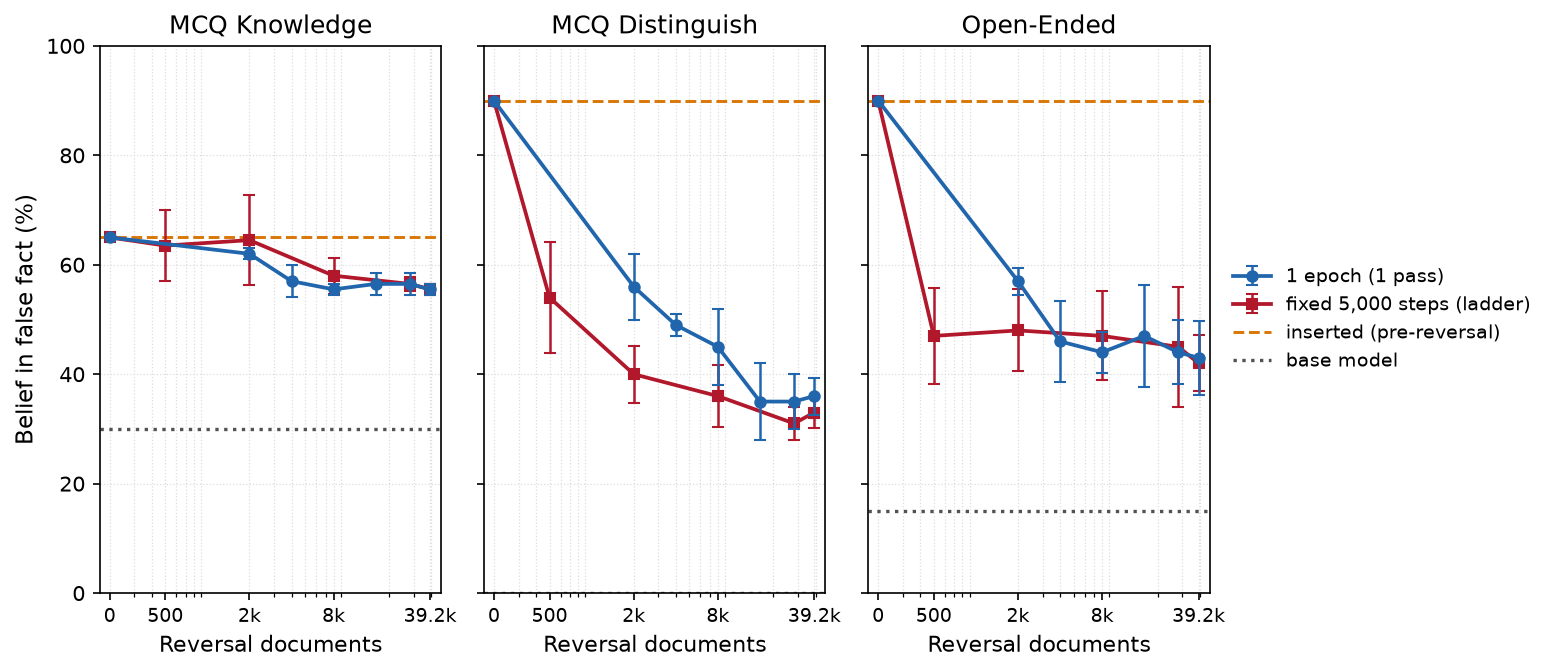
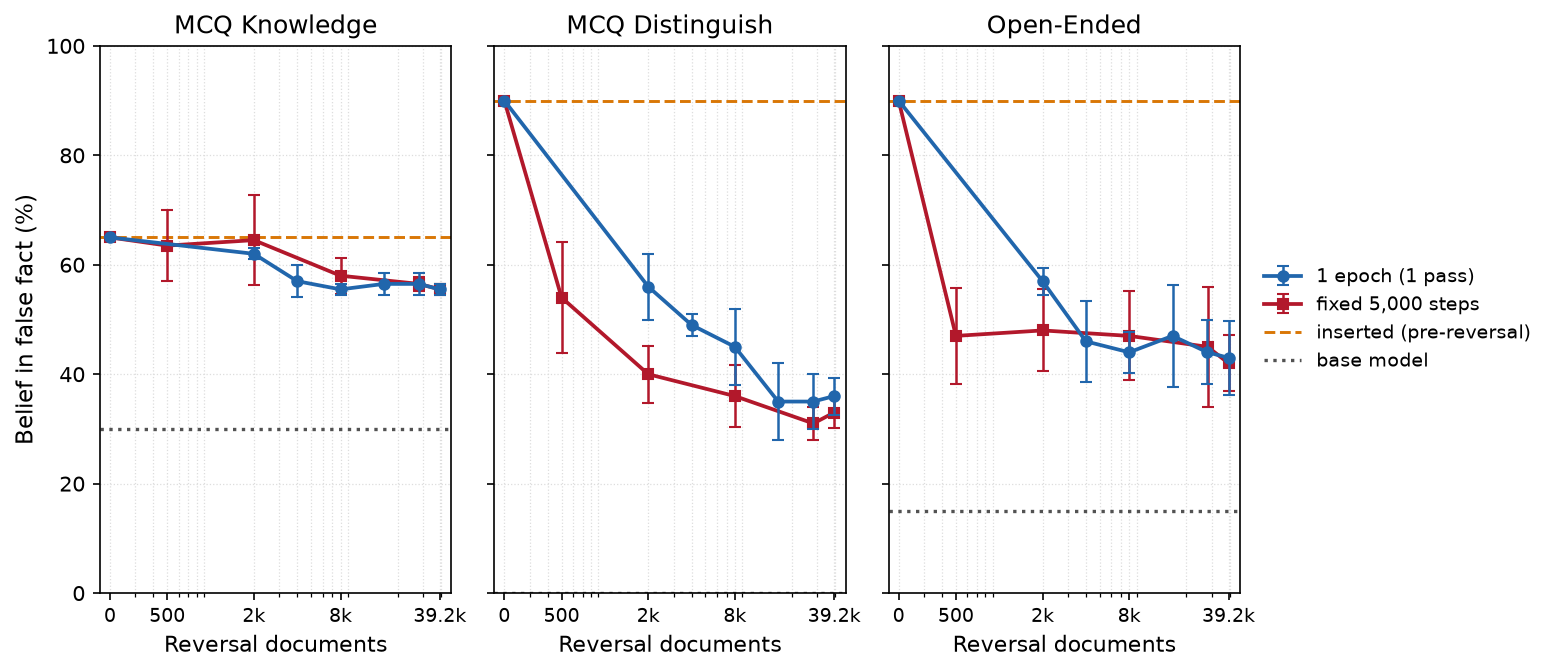
Update post and assets with latest figure formatting and content updates

diff --git a/_posts/2026-07-21-training-a-false-belief-harder-doesnt-make-it-harder-to-undo.md b/_posts/2026-07-21-training-a-false-belief-harder-doesnt-make-it-harder-to-undo.md
@@ -392,13 +392,13 @@ Again we see that the scores after 1 epoch reach the base model performance and 
 
 This confirms that multi-epoch insertion on the full dataset does not make the false belief significantly more robust to reversal.
 
-### How does this 10-epoch-insertion run compare to [Figure 16](#figure-16)'s two protocols?
+### How does the 10-epoch-insertion run compare to 1-epoch insertion?
 
-Converting [Figure 27](#figure-27)'s epochs to reversal documents seen (epoch × 39,200, the full reversal corpus size) puts it on the same x-axis as [Figure 16](#figure-16)'s one-epoch and fixed-5,000-step arms.
+[Figure 28](#figure-28) hints at a possible benefit to training the false belief in for longer on the full corpus: by the end of the run, MCQ Knowledge and Open-Ended both drop *further* than the one-epoch arm ever reached, rather than merely converging to its endpoint.
 
-<a id="figure-28"></a>![]({{ "/assets/img/qwen08_1epoch_vs_5ksteps_vs_epoch10ins.png" | relative_url }})
+<a id="figure-28"></a>![]({{ "/assets/img/tokens_axis/qwen08_1epoch_vs_5ksteps_vs_epoch10ins.png" | relative_url }})
 
-*Figure 28. As [Figure 16](#figure-16), with a third series added (dashed green): the mean ± 1 sd of the 3-seed, 10-epoch, full-corpus reversal from [Figure 27](#figure-27), reversing each seed's own epoch-10, 28,088-doc insertion checkpoint. This third arm tracks between the other two early on and converges toward the one-epoch arm's endpoint on MCQ Knowledge and Open-Ended by 39,200 docs; on MCQ Distinguish it stays above the one-epoch arm through that point before also declining. Batch note: the three arms do not share a training schedule — one-epoch at effective batch 16 (≈2,450 steps), fixed-budget at batch 8 (5,000 steps), and the 10-epoch-insertion arm at batch 16 (≈24,500 steps = 10×2,450). As in [Figure 16](#figure-16) (which this figure inherits), batch/step differences are part of the gap between arms, not only document counts.*
+*Figure 28. Two reversal arms plotted against reversal tokens seen (log scale): the one-epoch arm (blue, mean ± 1 sd across 5 insertion replicates, one pass over the full 39,200-doc reversal corpus) and a second series (dashed green): the mean ± 1 sd of the 3-seed, 10-epoch, full-corpus reversal from [Figure 27](#figure-27), reversing each seed's own epoch-10, 28,088-doc insertion checkpoint. The pre-reversal (dashed orange) and base-model (dotted gray) reference lines carry each arm's starting value, so neither curve plots a docs/tokens=0 point. On MCQ Knowledge and Open-Ended, the 10-epoch arm passes the one-epoch arm's endpoint and keeps declining below it; on MCQ Distinguish it instead stays above the one-epoch arm throughout, declining but never crossing below it. Batch note: the two arms do not share a training schedule — one-epoch at effective batch 16 (≈2,450 steps) vs. the 10-epoch-insertion arm at batch 16 (≈24,500 steps = 10×2,450), so batch/step differences are part of the gap between arms, not only token counts.*
 
 [^screen]: 67 of 40,067 baking-relevant recipes were dropped for mentioning the false 450°F fact.
 
